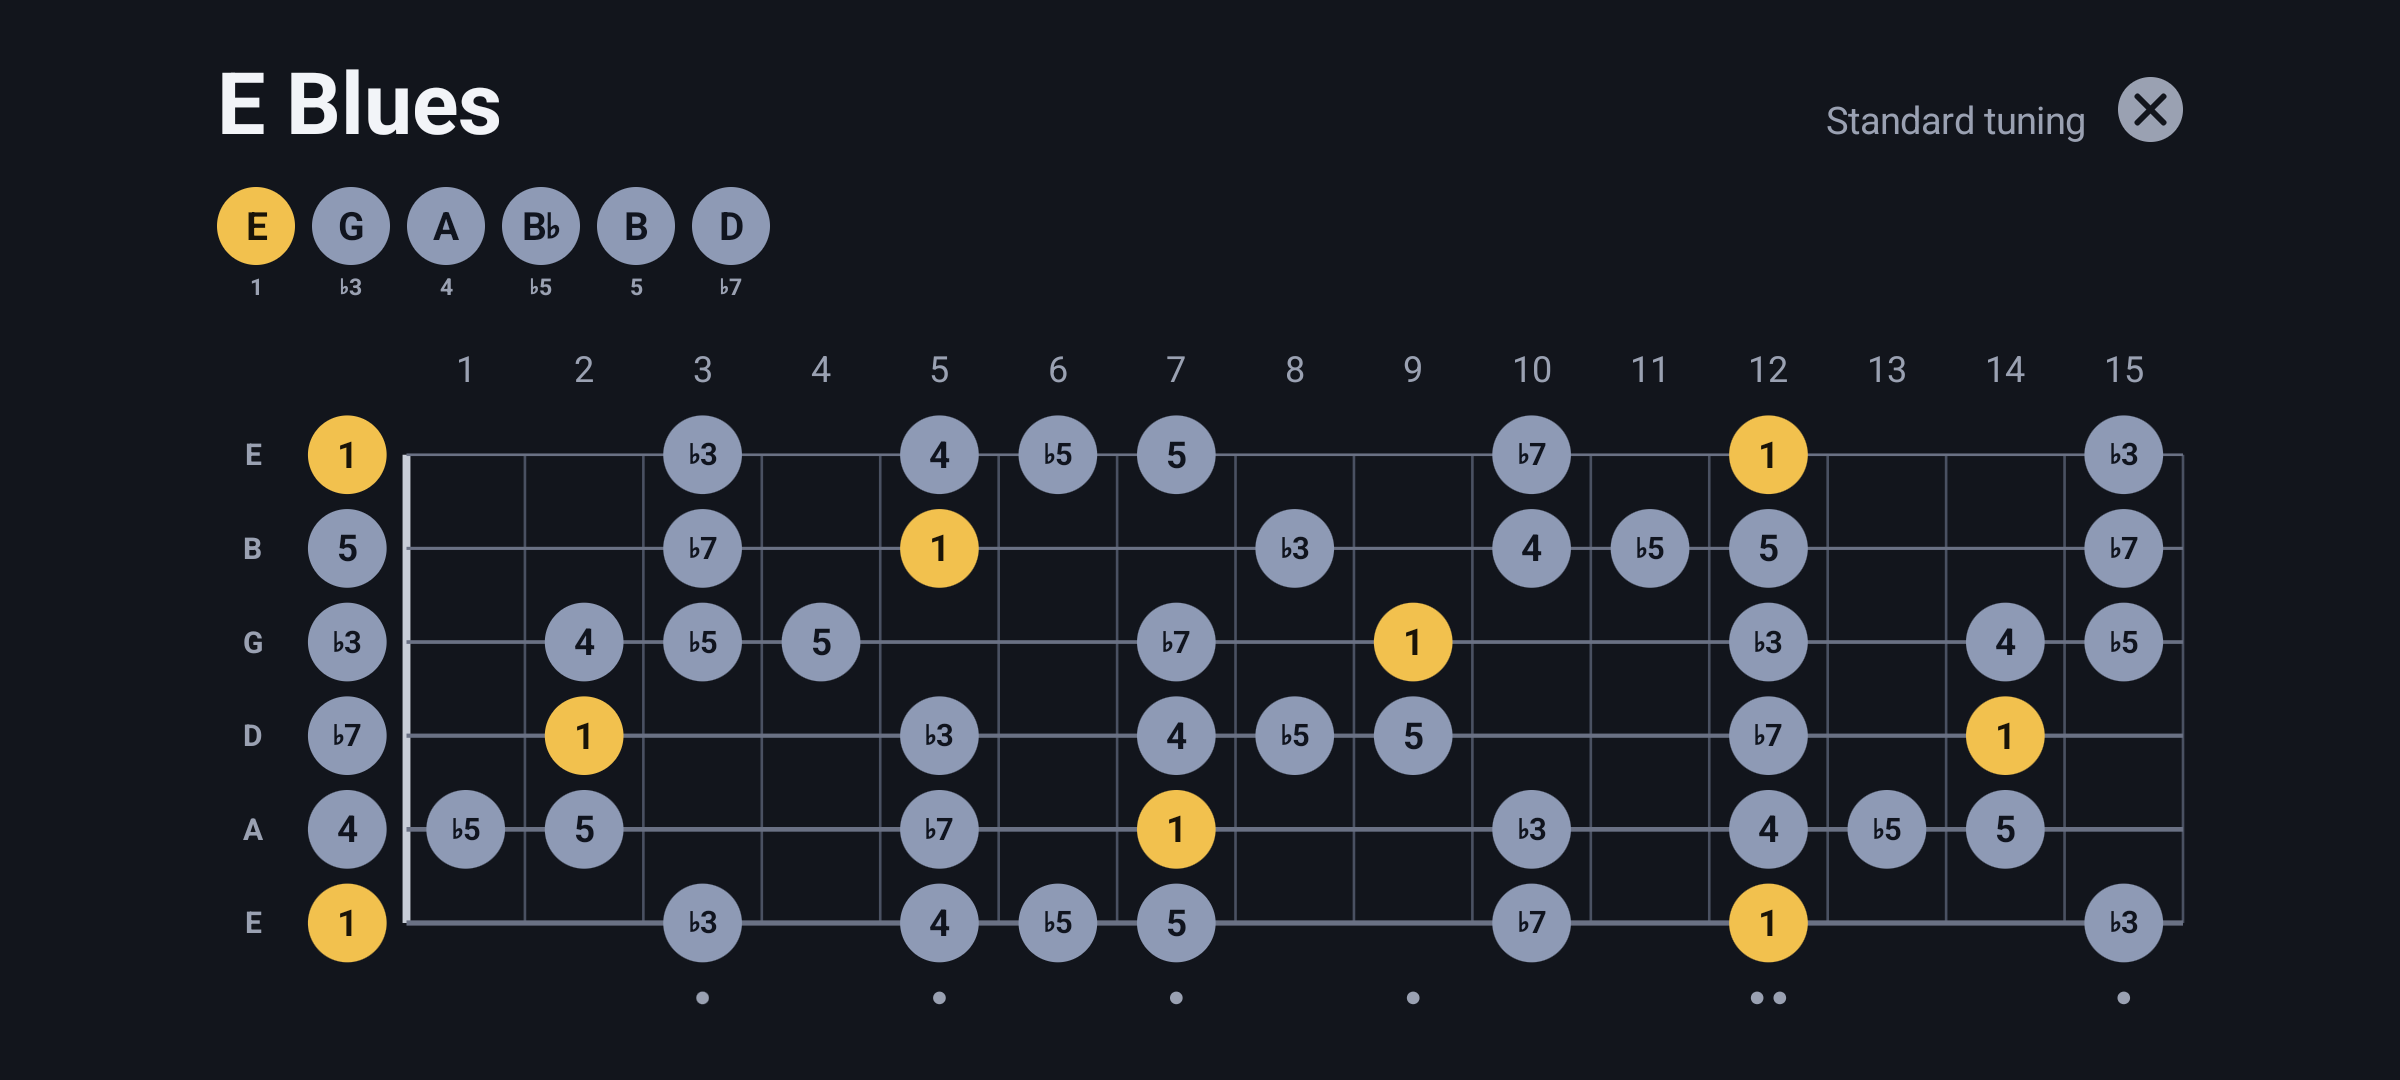
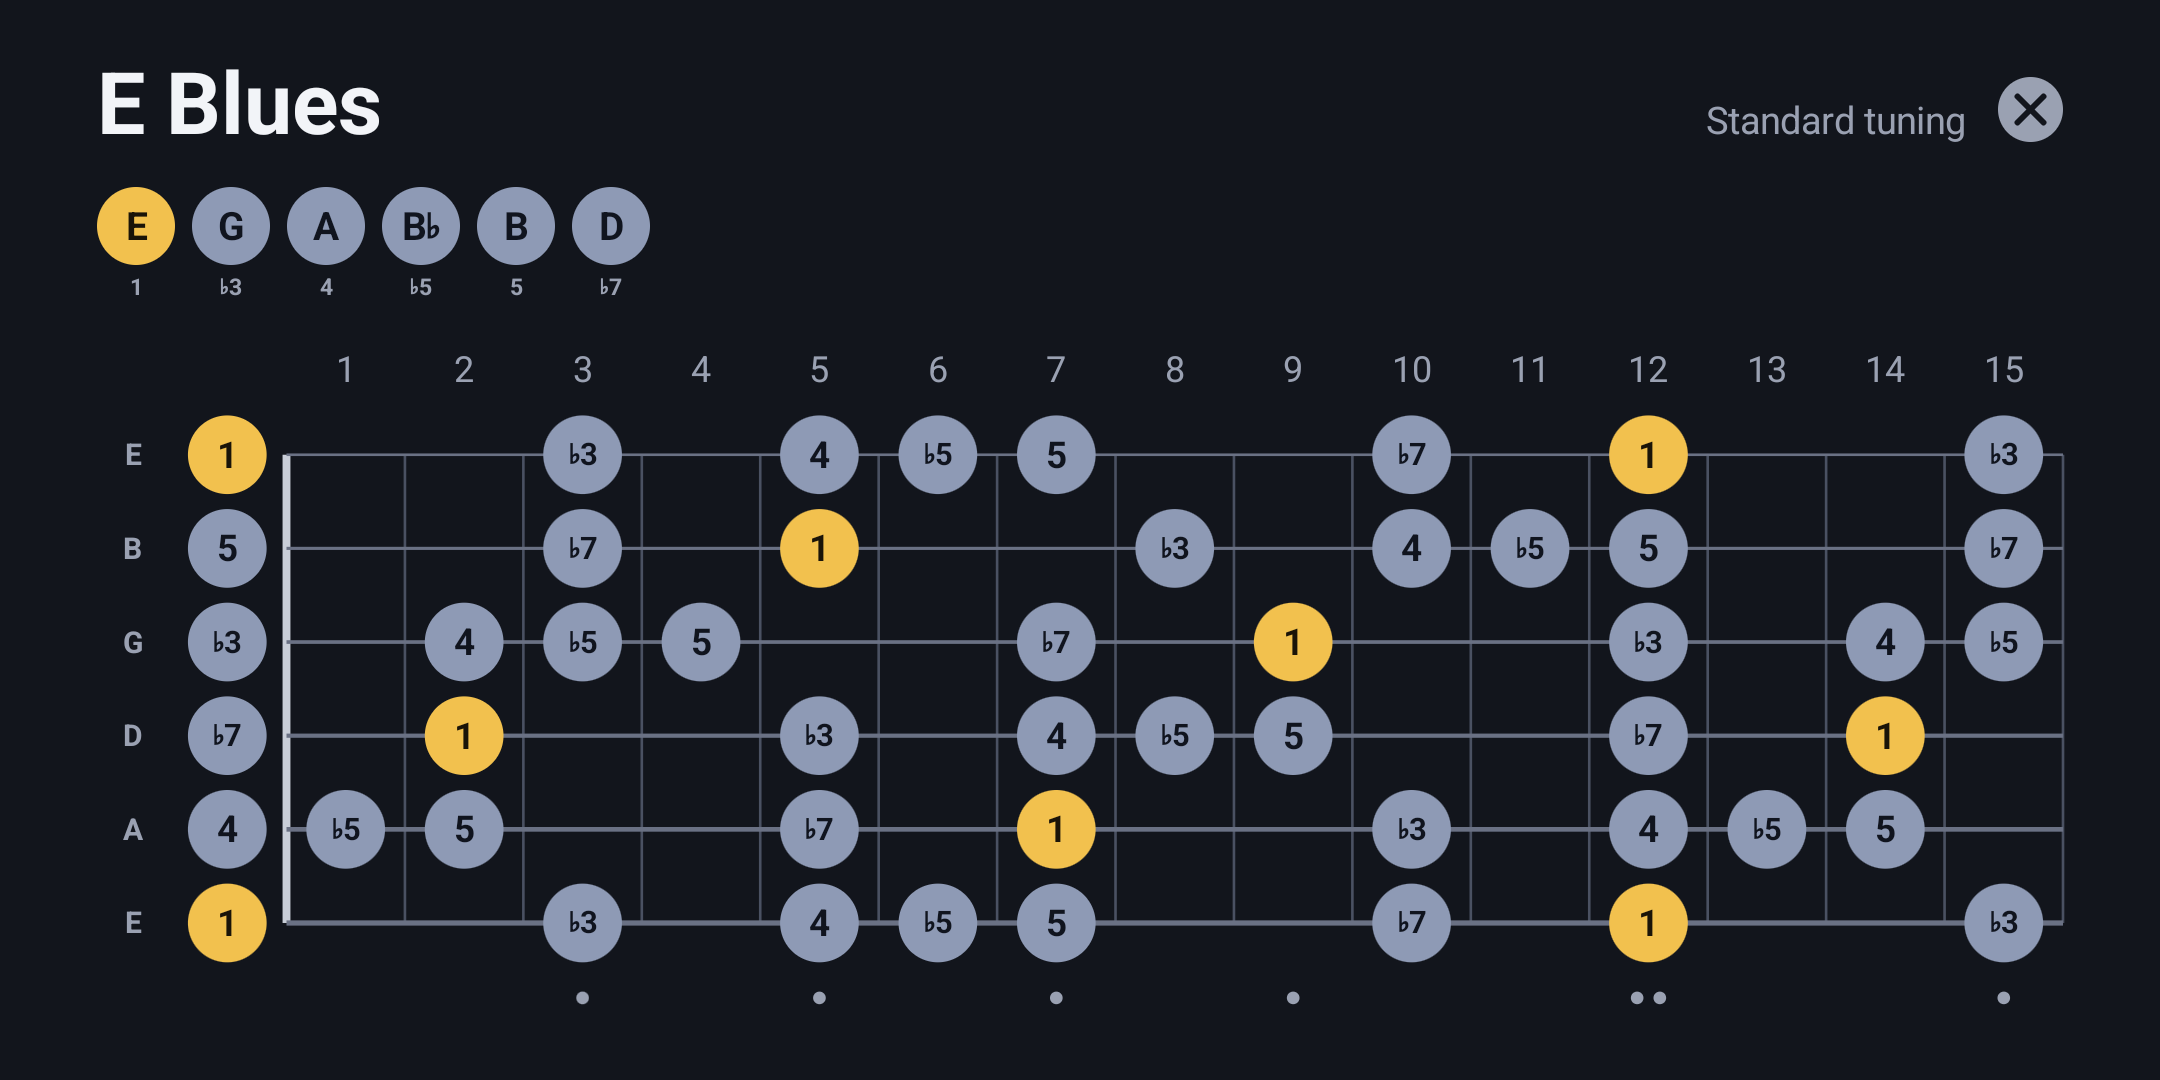
Android store kit: release steps, tester invite, release notes, Fire TV background, cropped phone screenshot

diff --git a/Store/android/release-steps.md b/Store/android/release-steps.md
@@ -1,0 +1,87 @@
+# Releasing Scales on Google Play and the Amazon Appstore, from no account
+
+Every step with its link, in order. Text to paste is in `listing.md`; the tester
+message is in `tester-invite.md`; release notes in `release-notes-1.0.txt`.
+
+Privacy policy URL for both stores: https://alnouralharin.com/apps/scales/#privacy
+(the page lives in `personal_website/client/public/apps/scales/index.html`; publish the
+site from Replit after editing it).
+
+## 1. Accounts (about an hour, then a wait for identity checks)
+
+1. Google account with two-step verification on: https://myaccount.google.com/signinoptions/two-step-verification
+2. Register a Play developer account (Personal, 25 USD once): https://play.google.com/console/signup
+3. Identity verification when the console asks (passport or licence photo, selfie):
+   https://play.google.com/console/ → Account details. Takes 1 to 7 days.
+4. Amazon developer account (free): https://developer.amazon.com/apps-and-games
+   Then the tax interview and payment profile under Settings, even for a free app.
+5. Recruit 15 or more Android testers and collect their Gmail addresses.
+
+## 2. Build (5 minutes)
+
+6. `make verify`, commit.
+7. `make bundle-android` → `android/app/build/outputs/bundle/release/app-release.aab` (Play)
+   and `android/app/build/outputs/apk/release/app-release.apk` (Amazon).
+8. Back up `~/.keystores/scales-upload.jks` and the four `scalesUpload*` lines of
+   `~/.gradle/gradle.properties` to the password manager.
+
+## 3. Google Play, first session (about 90 minutes)
+
+9. Create app: https://play.google.com/console/ → All apps → Create app.
+   Name Scales, English, App, Free. Tick the declarations.
+10. Dashboard → "Set up your app" checklist. Each item below is one row of it.
+11. App access: all functionality available without special access.
+12. Ads: No.
+13. Content rating: Reference, News, or Educational; every answer No. Result: Everyone.
+14. Target audience: 13 and over. News app: No.
+15. Data safety: does the app collect or share user data → No.
+16. Government apps No, Financial features none, Health none.
+17. Privacy policy: https://alnouralharin.com/apps/scales/#privacy
+18. Store settings: category Music & Audio; tags music education, guitar; contact email.
+19. Main store listing: short and full description from `listing.md`; `icon-512.png`;
+    `feature-graphic.png`; phone screenshots `screenshots/phone/01…07` (04 is already
+    cropped to 2:1); tablet screenshots `screenshots/tablet/01…07` in both the 7-inch
+    and 10-inch slots.
+20. Android TV: Setup → Advanced settings → Form factors → Add form factor → Android TV.
+    Then in the listing's Android TV section: `screenshots/tv/01…04` and `tv-banner-1280.png`.
+21. Setup → App signing: Play App Signing on, Google-generated key (the default).
+22. Testing → Closed testing → Create track "Testers" → Create release → upload
+    `app-release.aab` → release notes from `release-notes-1.0.txt` → Save → Review → Start rollout.
+23. Same track, Testers tab: create an email list with the addresses, save, copy the
+    opt-in link, send `tester-invite.md` with that link. Note today's date.
+24. Keep 12 or more testers opted in for 14 unbroken days. New builds during that time:
+    `make android-bump`, `make bundle-android`, upload to the same track.
+
+## 4. Amazon Appstore, same day (about 45 minutes, no test period)
+
+25. https://developer.amazon.com/apps-and-games/console/apps/new → Android app.
+    Title Scales, category Music, no in-app purchases.
+26. APK files: upload `app-release.apk`. Device support: Fire TV devices only.
+27. Description: Amazon description and product-feature bullets from `listing.md`.
+    Keywords: guitar, scales, piano, music theory.
+28. Images: `icon-114.png`, `icon-512.png`, `tv-banner-1280.png`,
+    `fire-tv-background-1920.png`, `screenshots/tv/01…04`.
+29. Content rating: every answer No. Privacy policy URL as above. Submit.
+
+## 5. Google production, after the 14 days
+
+30. Dashboard → Apply for production access: https://play.google.com/console/
+    Answer the questions in a few sentences each (who tested, what they found, what changed).
+31. On approval: Production → Create release → Add from library → the tested bundle →
+    release notes → Review → Start rollout at 100 %. Review takes up to 7 days.
+32. Check the Android TV review under Publishing overview; it is reviewed separately.
+
+## Every later release
+
+```sh
+make android-bump
+make bundle-android
+git commit -am "Android build N"
+```
+
+Upload the new `.aab` to Play (Production → Create release) and the new `.apk` to Amazon
+(Upcoming version).
+
+Reference: Play closed-test rule https://support.google.com/googleplay/android-developer/answer/14151465
+Play asset rules https://support.google.com/googleplay/android-developer/answer/9866151
+Amazon asset rules https://developer.amazon.com/docs/app-submission/asset-guidelines.html

diff --git a/Store/android/listing.md b/Store/android/listing.md
@@ -74,8 +74,8 @@ review looks for before it accepts the TV release.
 
 **Category**: Music & Audio. **Tags**: music education, guitar.
 
-**Contact email**: alnour.ahmed@gmail.com. **Privacy policy URL**: needed (see the steps at the
-end).
+**Contact email**: alnour.ahmed@gmail.com. **Privacy policy URL**:
+https://alnouralharin.com/apps/scales/#privacy (the page is in the personal_website repo).
 
 ### Data safety
 
@@ -107,14 +107,15 @@ collecting data.
 | --- | --- | --- | --- |
 | App icon | 512×512, 32-bit PNG, at most 1 MB | `icon-512.png` (from `icon-512.svg`) | ready |
 | Feature graphic | 1024×500, JPEG or 24-bit PNG, no alpha | `feature-graphic.png` (from `feature-graphic.svg`) | ready |
-| Phone screenshots | 2 to 8; 4 or more at 1080 px or more; long side at most twice the short | `screenshots/phone/01…07` (1080×2400) | needs `make screenshots-android ANDROID_SHOTS=phone` |
+| Phone screenshots | 2 to 8; 4 or more at 1080 px or more; long side at most twice the short | `screenshots/phone/01…07` (1080×2400; 04 cropped to 2160×1080) | ready |
 | Tablet screenshots | 4 or more, 1080 to 7680 px | `screenshots/tablet/01…07` (2560×1600) | ready |
-| TV screenshots | at least 1; plan on 4 at 1920×1080 | `screenshots/tv/01…04` | needs `make screenshots-android ANDROID_SHOTS=tv` |
+| TV screenshots | at least 1; plan on 4 at 1920×1080 | `screenshots/tv/01…04` | ready |
 | TV banner (listing) | 1280×720, no alpha | `tv-banner-1280.png` (from `Store/Icon/android-tv-banner.svg`) | ready |
 | TV banner (in the app) | 320×180, xhdpi, with the name | `android/app/src/main/res/drawable-xhdpi/banner.png` | in the APK |
 
-The phone screenshot `04-tv-board-landscape.png` is landscape (2400×1080, long side 2.2× the
-short side); Play allows at most 2×, so leave it out of the phone set or crop it to 2160×1080.
+The phone screenshot `04-tv-board-landscape.png` is cropped to 2160×1080 because Play allows
+a long side of at most twice the short; `make screenshots-android` writes it at 2400×1080 again,
+so crop it after a rerun (`ffmpeg -i in.png -vf crop=2160:1080:120:0 out.png`).
 
 ### Closed test before production
 
@@ -167,7 +168,7 @@ Drum trainer · Made for the Fire TV remote.
 | Large icon | 512×512 PNG, transparency allowed | `icon-512.png` |
 | Fire TV icon | 1280×720 PNG, no transparency | `tv-banner-1280.png` |
 | Screenshots | 3 to 10 at 1920×1080 | `screenshots/tv/01…04` |
-| Fire TV background | 1920×1080, no text | not made yet: `screenshots/tv/01-board.png` with the title cropped, or a plain fretboard |
+| Fire TV background | 1920×1080, no text | `fire-tv-background-1920.png` (the fretboard band of `screenshots/tv/01-board.png`, padded) |
 
 There is no closed-test requirement on Amazon.
 
@@ -178,11 +179,11 @@ There is no closed-test requirement on Amazon.
    passwords up in the password manager. Add to `~/.gradle/gradle.properties`:
    `scalesUploadStoreFile`, `scalesUploadStorePassword`, `scalesUploadKeyAlias`,
    `scalesUploadKeyPassword`. `make bundle-android` then writes a signed
-   `app-release.apk`.
+   `app-release.apk`. Done on this Mac.
 2. **Play Console**: create the app (name Scales, free, app not game), accept Play App
    Signing, finish developer verification, the data safety form, content rating, target
-   audience and ads forms as above, and host a privacy policy (a short page stating that
-   the app collects nothing is enough) and paste its URL.
+   audience and ads forms as above, and paste the privacy policy URL above. The step-by-step list with links is in
+   `release-steps.md`.
 3. **Closed test**: upload `app-release.aab` to a closed track, invite 15 or more testers,
    keep 12 opted in for 14 days, then apply for production.
 4. **Android TV**: add the TV release type, TV screenshots and TV banner (above).

diff --git a/Store/android/tester-invite.md b/Store/android/tester-invite.md
@@ -1,0 +1,23 @@
+# Tester invitation (copy into an email or message)
+
+Subject: Help me test Scales on Android for two weeks
+
+Hi,
+
+I've made an Android app called Scales that draws any musical scale across a guitar
+neck or piano keyboard, with the chords of the scale underneath. Google requires a
+closed test before it lets a new app on the Play Store, and I need testers who keep
+it installed for 14 days.
+
+Three steps, two minutes:
+
+1. Open this link on your Android phone, signed in to the Google account I sent this
+   to: <OPT-IN LINK FROM PLAY CONSOLE>
+2. Tap "Become a tester", then "Download it on Google Play" and install the app.
+3. Keep it installed until <DATE 15 DAYS FROM TODAY>. Open it when you like; one look
+   is enough, but any feedback is welcome by reply.
+
+Please don't leave the test early: if the tester count drops, the clock restarts.
+
+Thanks,
+Alnour
